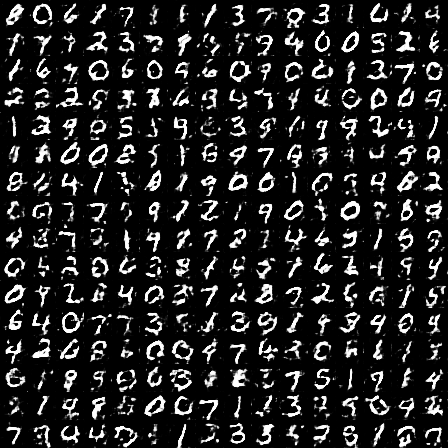
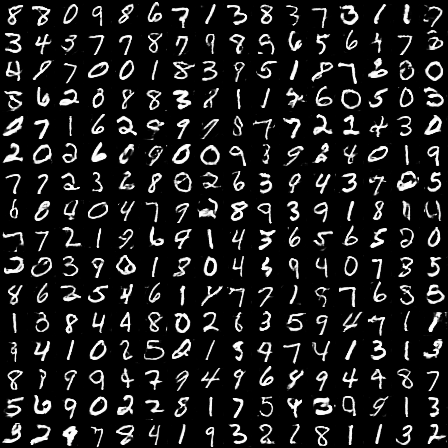
modify the network

Changed region(s): [[0.0, 0.0, 1.0, 1.0]]

diff --git a/model.py b/model.py
@@ -4,50 +4,69 @@ from keras.layers import Reshape
 from keras.layers.core import Activation
 from keras.layers.normalization import BatchNormalization
 from keras.layers.convolutional import UpSampling2D
-from keras.layers.convolutional import Conv2D, MaxPooling2D
+from keras.layers.convolutional import Conv2D, MaxPooling2D,Conv2DTranspose
 from keras.layers.advanced_activations import LeakyReLU, ELU
 from keras.layers.core import Flatten
 from keras.layers import Dropout
-from keras.optimizers import SGD
-from keras.datasets import mnist
-import numpy as np
 
 
-def generator(input_dim=100,units=1024,activation='relu'):
+
+def generator(input_dim=100):
+    dropout = 0.4
+    dim = 7
+    depth = 64 * 4
     model = Sequential()
-    model.add(Dense(input_dim=input_dim, units=units))
-    model.add(BatchNormalization())
-    model.add(Activation(activation))
-    model.add(Dense(128*7*7))
-    model.add(BatchNormalization())
-    model.add(Activation(activation))
-    model.add(Reshape((7, 7, 128), input_shape=(128*7*7,)))
-    model.add(UpSampling2D((2, 2)))
-    model.add(Conv2D(64, (5, 5), padding='same'))
-    model.add(BatchNormalization())
-    model.add(Activation(activation))
-    model.add(UpSampling2D((2, 2)))
-    model.add(Conv2D(1, (5, 5), padding='same'))
-    model.add(Activation('tanh'))
+    # In: 100
+    # Out: dim x dim x depth
+    model.add(Dense(dim * dim * depth, input_dim=100))
+    model.add(BatchNormalization(momentum=0.9))
+    model.add(Activation('relu'))
+    model.add(Reshape((dim, dim, depth)))
+    model.add(Dropout(dropout))
+
+    # In: dim x dim x depth
+    # Out: 2*dim x 2*dim x depth/2
+    model.add(UpSampling2D())
+    model.add(Conv2DTranspose(int(depth / 2), 5, padding='same'))
+    model.add(BatchNormalization(momentum=0.9))
+    model.add(Activation('relu'))
+
+    model.add(UpSampling2D())
+    model.add(Conv2DTranspose(int(depth / 4), 5, padding='same'))
+    model.add(BatchNormalization(momentum=0.9))
+    model.add(Activation('relu'))
+
+    model.add(Conv2DTranspose(int(depth / 8), 5, padding='same'))
+    model.add(BatchNormalization(momentum=0.9))
+    model.add(Activation('relu'))
+
+    # Out: 28 x 28 x 1 grayscale image [0.0,1.0] per pix
+    model.add(Conv2DTranspose(1, 5, padding='same'))
+    model.add(Activation('sigmoid'))
     print(model.summary())
     return model
 
 
 def discriminator(input_shape=(28, 28, 1),nb_filter=64):
     model = Sequential()
-    model.add(Conv2D(nb_filter, (5, 5), strides=(2, 2), padding='same',
-                            input_shape=input_shape))
-    model.add(BatchNormalization())
-    model.add(ELU())
-    model.add(Conv2D(2*nb_filter, (5, 5), strides=(2, 2)))
-    model.add(BatchNormalization())
-    model.add(ELU())
-    model.add(MaxPooling2D(pool_size=(2, 2)))
+    dropout = 0.4
+    model.add(Conv2D(nb_filter, (5, 5), strides=(2, 2), padding='same',input_shape=input_shape))
+    model.add(LeakyReLU(alpha=0.2))
+    model.add(Dropout(dropout))
+
+    model.add(Conv2D(2 * nb_filter, (5, 5), strides=(2, 2), padding = 'same'))
+    model.add(LeakyReLU(alpha=0.2))
+    model.add(Dropout(dropout))
+
+    model.add(Conv2D(4 * nb_filter, (5, 5), strides=(2, 2), padding = 'same'))
+    model.add(LeakyReLU(alpha=0.2))
+    model.add(Dropout(dropout))
+
+    model.add(Conv2D(8 * nb_filter, (5, 5), strides=(1, 1), padding = 'same'))
+    model.add(LeakyReLU(alpha=0.2))
+    model.add(Dropout(dropout))
+
     model.add(Flatten())
-    model.add(Dense(4*nb_filter))
-    model.add(BatchNormalization())
-    model.add(Dropout(0.5))
-    model.add(ELU())
     model.add(Dense(1))
     model.add(Activation('sigmoid'))
     print(model.summary())
@@ -59,8 +78,4 @@ def GAN(generator, discriminator):
     discriminator.trainable = False
     model.add(discriminator)
     return model
-
-
-
-
 

diff --git a/train.py b/train.py
@@ -1,18 +1,6 @@
-from keras.models import Sequential
-from keras.layers import Dense
-from keras.layers import Reshape
-from keras.layers.core import Activation
-from keras.layers.normalization import BatchNormalization
-from keras.layers.convolutional import UpSampling2D
-from keras.layers.convolutional import Conv2D, MaxPooling2D
-from keras.layers.advanced_activations import LeakyReLU, ELU
-from keras.layers.core import Flatten
-from keras.layers import Dropout
-from keras.optimizers import SGD
+from keras.optimizers import SGD, RMSprop
 from keras.datasets import mnist
 import numpy as np
-import keras.backend as K
-import tensorflow as tf
 from model import *
 from PIL import Image
 import math
@@ -22,24 +10,26 @@ BATCH_SIZE = 256
 
 #prepare for the training data
 (X_train, y_train), (X_test, y_test) = mnist.load_data()
-X_train = (X_train.astype(np.float32) - 127.5)/127.5
+X_train = X_train.astype(np.float32) / 255
 X_train = X_train.reshape((X_train.shape[0], 28, 28, 1))
 
 d = discriminator()
 g = generator()
 dcgan = GAN(g,d)
-d_optim = SGD(lr=0.0005, momentum=0.9, nesterov=True)
-g_optim = SGD(lr=0.0005, momentum=0.9, nesterov=True)
-g.compile(loss='binary_crossentropy', optimizer="SGD")
-dcgan.compile(loss='binary_crossentropy', optimizer=g_optim)
+#d_optim = SGD(lr=0.0005, momentum=0.9, nesterov=True)
+#g_optim = SGD(lr=0.0005, momentum=0.9, nesterov=True)
+d_optim = RMSprop(lr=0.0002, decay=6e-8)
+g_optim = RMSprop(lr=0.0001, decay=3e-8)
+g.compile(loss='binary_crossentropy', optimizer=g_optim , metrics=['accuracy'])
+dcgan.compile(loss='binary_crossentropy', optimizer=g_optim , metrics=['accuracy'])
 d.trainable = True
-d.compile(loss='binary_crossentropy', optimizer=d_optim)
+d.compile(loss='binary_crossentropy', optimizer=d_optim , metrics=['accuracy'])
 
 
 noise = np.zeros((BATCH_SIZE, 100))
 
-
-for epoch in range(200):
+print("done")
+for epoch in range(100):
     for index in range(int(X_train.shape[0]/BATCH_SIZE)):
         for i in range(BATCH_SIZE):
             noise[i, :] = np.random.normal(0, 0.5, 100)   #initialize the noise
@@ -54,13 +44,13 @@ for epoch in range(200):
             X = generated_images
             y = [0] * BATCH_SIZE
         d_loss = d.train_on_batch(X, y)
-        print("epoch %d batch %d d_loss : %f" % (epoch, index, d_loss))
+        print(epoch, index, d_loss)
         for i in range(BATCH_SIZE):
             noise[i, :] = np.random.normal(0, 0.5, 100)
         discriminator.trainable = False
         g_loss = dcgan.train_on_batch(noise, [1] * BATCH_SIZE)
         discriminator.trainable = True
-        print("epoch %d batch %d g_loss : %f" % (epoch, index, g_loss))
+        print(epoch, index, g_loss)
         if index % 10 == 9:
             g.save_weights('generator', True)
             d.save_weights('discriminator', True)
@@ -85,7 +75,8 @@ def combine_images(generated_images):
 #generate images after training
 def generate_images(BATCH_SIZE, nice=False):
     g = generator()
-    g.compile(loss='binary_crossentropy', optimizer="SGD")
+    g_optim = RMSprop(lr=0.0001, decay=3e-8)
+    g.compile(loss='binary_crossentropy', optimizer=g_optim)
     g.load_weights('generator')
     if nice:
         d = discriminator()
@@ -108,7 +99,7 @@ def generate_images(BATCH_SIZE, nice=False):
         noise = np.random.uniform(-1, 1, (BATCH_SIZE, 100))
         generated_images = g.predict(noise, verbose=1)
         image = combine_images(generated_images)
-    image = image*127.5+127.5
+    image = image*255
     Image.fromarray(image.astype(np.uint8)).save("generated_image.png")
 
 
